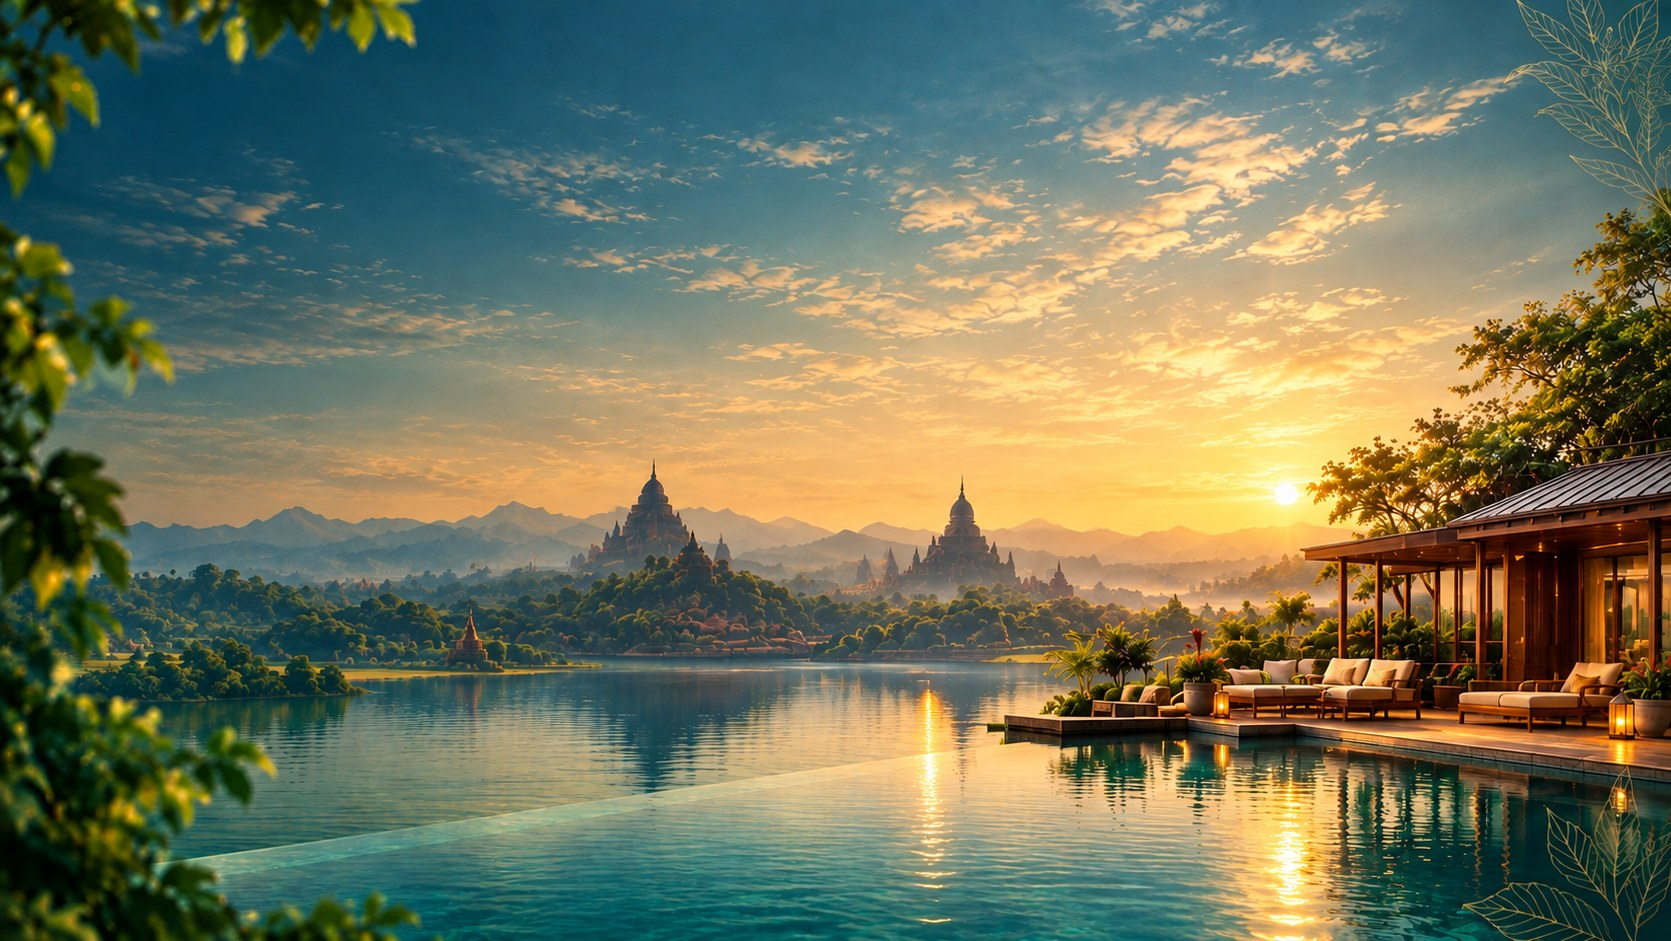
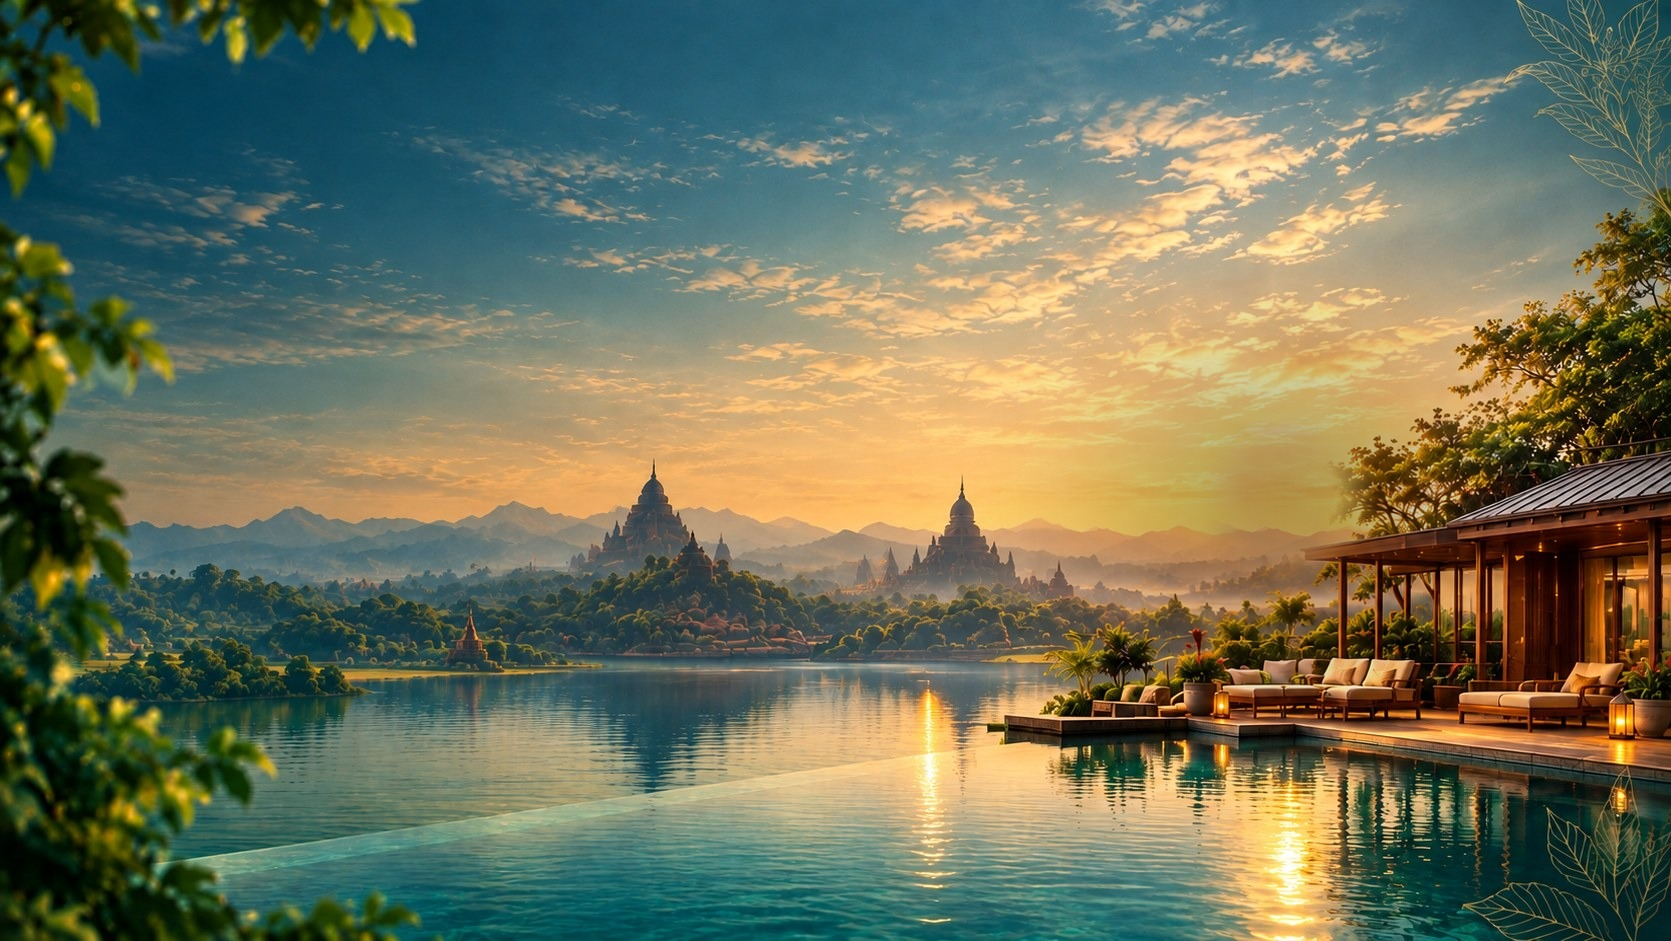
System chooser: sun removed from the photo, calmer glow, one even shade over the whole photo

Changed region(s): [[0.6224, 0.339, 0.9025, 0.678]]

diff --git a/ecosystem/index.html b/ecosystem/index.html
@@ -270,10 +270,9 @@ body.eco-noscroll{overflow:hidden}body.eco-noscroll #app{height:100vh;height:100
 .eco-shell.eco-only{grid-template-columns:1fr}
 .eco-hero{position:relative;overflow:hidden;padding:0;display:block;height:100%;color:#f4efe6;isolation:isolate;background:#0f3627}
 .eco-hero-bg{position:absolute;inset:0;z-index:0;background:var(--eco-photo) center/cover no-repeat;transform:scale(1.06);animation:ecoCloudDrift 48s ease-in-out infinite alternate;pointer-events:none;will-change:transform}
-.eco-leaves{position:absolute;inset:0;z-index:1;background:var(--eco-photo) center/cover no-repeat;filter:blur(6px);pointer-events:none;-webkit-mask-image:linear-gradient(90deg,#000 0%,rgba(0,0,0,.75) 7%,transparent 20%);mask-image:linear-gradient(90deg,#000 0%,rgba(0,0,0,.75) 7%,transparent 20%);transform:scale(1.06);animation:ecoCloudDrift 48s ease-in-out infinite alternate;will-change:transform}
+.eco-leaves{display:none;position:absolute;inset:0;z-index:1;background:var(--eco-photo) center/cover no-repeat;filter:blur(6px);pointer-events:none;-webkit-mask-image:linear-gradient(90deg,#000 0%,rgba(0,0,0,.75) 7%,transparent 20%);mask-image:linear-gradient(90deg,#000 0%,rgba(0,0,0,.75) 7%,transparent 20%);transform:scale(1.06);animation:ecoCloudDrift 48s ease-in-out infinite alternate;will-change:transform}
 .eco-hero::after{content:"";position:absolute;inset:0;z-index:1;pointer-events:none;background:
-  radial-gradient(ellipse 85% 100% at -12% -18%,rgba(6,22,16,0.3) 0%,rgba(6,22,16,0.27) 12%,rgba(6,22,16,0.22) 25%,rgba(6,22,16,0.16) 38%,rgba(6,22,16,0.1) 52%,rgba(6,22,16,0.05) 66%,rgba(6,22,16,0.02) 80%,rgba(6,22,16,0) 94%),
-  linear-gradient(180deg,rgba(6,22,16,0) 0%,rgba(6,22,16,0) 52%,rgba(6,22,16,.22) 66%,rgba(6,22,16,.62) 100%)}
+  linear-gradient(180deg,rgba(6,22,16,.3) 0%,rgba(6,22,16,.3) 52%,rgba(6,22,16,.38) 66%,rgba(6,22,16,.66) 100%)}
 .eco-toptools{position:absolute;top:18px;right:22px;z-index:3;display:flex;align-items:center;gap:10px}
 .eco-prov{appearance:none;background:transparent;border:1px solid rgba(226,180,90,.55);color:#f4efe6;border-radius:999px;padding:7px 14px;font-weight:700;font-size:13px;cursor:pointer}
 .eco-prov:hover{background:rgba(226,180,90,.16)}

diff --git a/sw.js b/sw.js
@@ -1,5 +1,5 @@
 /* Maha Hub PMS — offline shell. Hotel data stays in IndexedDB / localStorage, not in this cache. */
-const CACHE='mahahub-mh5-57';
+const CACHE='mahahub-mh5-58';
 const ASSETS=['/ecosystem/index.html','/manifest.json','/brand/pms/icon-32.png','/brand/pms/icon-48.png','/brand/pms/icon-192.png','/brand/pms/icon-180.png','/brand/pms/icon-512.png','/brand/pms/mark-256.png','/brand/pms/lockup.png','/brand/login-hero-bg.jpg','/brand/ecosystem-hero.jpg'];
 self.addEventListener('install',e=>{
   e.waitUntil(caches.open(CACHE).then(c=>c.addAll(ASSETS)).then(()=>self.skipWaiting()));
